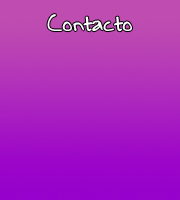
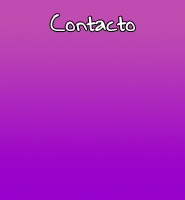
Corregido redireccion al loguear y menu purple

Changed region(s): [[0.3333, 0.06, 0.5833, 0.18], [0.6111, 0.06, 0.75, 0.18], [0.25, 0.06, 0.3333, 0.18]]

diff --git a/web/css/menu.css b/web/css/menu.css
@@ -1,5 +1,5 @@
 #menu {
-  width:  902px;
+  width:  905px;
   height: 47px;
   margin: 0 0 0 -451px;
   left: 50%;
@@ -16,10 +16,6 @@ a {
   color:#FFF;
   text-decoration:  none;
 }
-
-/*p {
-  padding:10px 5px;
-}*/
 .menu-spacer {
   height: 47px;
 }
@@ -38,7 +34,8 @@ a {
   color: #FFFFFF;
   text-align: right;
   vertical-align: bottom;
-  padding-top: 95%;
+  padding-top: 90%;
+  padding-right: 2%;
 }
 
 /*Menu Color Classes*/
@@ -72,9 +69,9 @@ a {
 #purple{
   float: left;
   color:      #191919;
-  text-align: left;
+  text-align: center;
   overflow:   hidden;
-  width:      180px;
+  width:      185px;
   height:     41px;
   background: url('../images/menu/Purple.jpg') top left no-repeat;
 }
@@ -83,7 +80,7 @@ a {
   color:      #191919;
   text-align: center;
   overflow:   hidden;
-  width:      182px;
+  width:      180px;
   height:     41px;
   background: url('../images/menu/Blue.jpg') top left no-repeat;
 }
